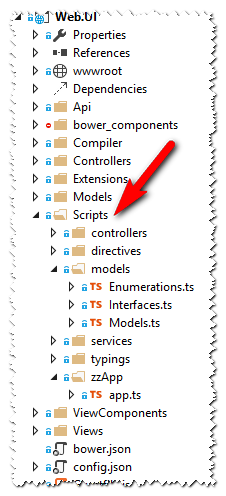
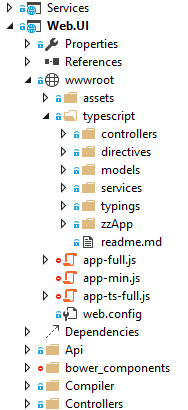
better practice

diff --git a/_posts/blog/2015-08-02-TypeScript-aspnet5-grunt.md b/_posts/blog/2015-08-02-TypeScript-aspnet5-grunt.md
@@ -1,6 +1,6 @@
 ---
 layout: post
-title: 'How to setup TypeScript, ASP.NET 5 (vNext) with grunt'
+title: 'How to setup TypeScript and ASP.NET 5 DNX with grunt'
 categories:
 - blog
 - aspnet-5
@@ -8,16 +8,17 @@ tags:
 - grunt
 - typescript
 - aspnet-5
+- dnx
+- vnext
 excerpt: Notes on setting up TypeScript in an ASP.NET 5 solution
 ---
 I didn't find a lot of documentation on how to setup TypeScript in an ASP.NET 5 project. This is how I did it with grunt and ASP.NET 5 Beta 6. If you know of a better method, comments welcome. 
 
-TheTypeScripts are created in a `Scripts` folder off the project root:
+The TypeScripts are located in `wwwroot/typescript`. Intitially I had them in `$\Scripts` and used grunt to copy them to `wwwroot` but then Visual Studio sees two copies of every `*.ts` file and the TypeScript compiler complains about duplicates.
 
-![Scripts folder](/assets/img/blog/20150802/sln.png)
+![Scripts folder](/assets/img/blog/20150802/sln.png)  
 
-Now when the TypeScript compiles the `*.ts` into `*.js`, it is left in these folders which are not served. We need these files placed into `wwwroot`.
-Grunt will be used to get the files into their final locations.
+We could keep the TypeScript in `$\Scripts` and copy the `*.js` to `wwwroot` with grunt, but then we lose the benefit of sourcemaps and stepping through TypeScript in the browser. 
 
 ### Project Open Task ###
 
@@ -44,8 +45,8 @@ Add a new `tsd.json` to your project root. It might look like this where I am re
 	  "version": "v4",
 	  "repo": "borisyankov/DefinitelyTyped",
 	  "ref": "master",
-	  "path": "Scripts/typings",
-	  "bundle": "Scripts/typings/tsd.d.ts",
+	  "path": "wwwroot/typescript/typings",
+	  "bundle": "wwwroot/typescript/typings/tsd.d.ts",
 	  "installed": {
 	    "angularjs/angular.d.ts": {
 	      "commit": "4df20c9706ce6ca27137617770b57f3a0d3f9689"
@@ -56,39 +57,36 @@ Now you can use the `tsd` console application to install type definitions. I ign
 
 ### Compile time tasks ###
 
-Add a `grunt.loadNpmTasks("grunt-contrib-copy");`, then a copy task:
+Add a `grunt.loadNpmTasks("grunt-contrib-clean");` then make sure our javascript is kept nice and clean. I guess this is optional.
 
-      copy: {
-	    typescript: {
-	    src: 'Scripts/**/*.ts',
-	    dest: 'wwwroot/assets/typescript',
-	    expand: true,
-	    flatten: false
-	    }
-    },
+      clean: {
+            typescriptJS: ["wwwroot/typescript/**/.js"]
+            ,appJS: ["wwwroot/assets/app*.js"]
+        },
     
-Notice that we aren't copying the JavaScript but the TypeScript files.
 
 Next we add a `grunt.loadNpmTasks("grunt-typescript");` task:
 
     typescript: {
-	    webui: {
-			src: ['wwwroot/assets/typescript/**/*.ts'],
-			dest: 'wwwroot/app-ts-full.js',
-			options: {
-			module: 'amd', //or commonjs 
-			target: 'es5', //or es3
-			sourceMap: true,
-			declaration: false
-			}
-		}
-    }
+            webui: {
+                src: ['wwwroot/typescript/**/*.ts'],
+                dest: 'wwwroot/assets/app-ts-full.js',
+                options: {
+                    module: 'amd', //or commonjs 
+                    target: 'es5', //or es3
+                    sourceMap: true,
+                    declaration: false
+                }
+            }
+        },
 
-This is compiling and concatenating the TypeScript into a single JavaScript file in our app root: `app-ts-full-js` which we can reference in our `Shared/Layout.cshtml`.
+This is compiling and concatenating the TypeScript into a single JavaScript file: `wwwroot/assets/app-ts-full-js` which we can reference in our `Shared/Layout.cshtml`.
 
-In the options we set `sourceMap=true`. This is why we copied the TypeScript and not simply the compiled JavaScript to `wwwroot`. TypeScript files in `$(projectDir)` can't get served to the browser, they need to be in  `$(projectDir)/wwwroot` to be visible so that we can step through TypeScript source with F12 tools. This method in a double compile since Visual Studio compiles TypeScript but it doesn't take long on my solution.
+In the TypeScript options we set `sourceMap=true` so that the browser can use load them and allow us to step through TypeScript in the browser with F12 tools. 
 
-At this point we now have TypeScript, JavaScript and sourcemaps being copied and compiled to `wwwroot` at compile time. What if we want to simply edit a TypeScript source file and hit F5 in the browser though?
+This does mean a double compile since Visual Studio compiles TypeScript but it doesn't take long on my solution. I wasn't sure whether `concat` would honour the individual sourcefiles, so that is another reason I did it this way.
+
+At this point we now have TypeScript, JavaScript and sourcemaps being compiled and created off `wwwroot` on every project build. What if we want to simply edit a TypeScript file and hit F5 in the browser?
 
 ### Another Project Open Task ###
 
@@ -96,80 +94,82 @@ Lets watch the TypeScript source folder with
     `grunt.loadNpmTasks('grunt-contrib-watch');`
 
 	watch: {
-	        typescript: {
-	            files: ['Scripts/**/*.ts'],
-	            tasks: ['typeScriptChanged']
-	        }
-	    }
+	    typescript: {
+	        files: ['wwwroot/typescript/**/*.ts'],
+	        tasks: ['typeScript']
+        }
+    }
 
-now define the `typeScriptChanged` task as
-
-	grunt.registerTask('typeScriptChanged', ['copy:typescript', 'typescript']);
-
-
-One final trick is that you will note the `zzApp` folder in my folder structure (see screenshot). This holds `app.ts` which forces my angular modules to register last otherwise I had runtime errors in the browser when the app is trying to load modules that are yet to be parsed in the JavaScript file.  
+One final trick is that you will note the `zzApp` folder in my folder structure (see screenshot above). This holds `app.ts` which forces my angular modules to register last otherwise I had runtime errors in the browser when the app is trying to load modules that are yet to be parsed in the JavaScript file.  
 
 ### TLDR - Complete gruntfile.js
 
 Pulling it all together, here is the final `gruntfile.js`. Notice how the first line is `binding` tasks to Visual Studio events.
+In the real world, you probably also want to copy your `bower` references to `wwwroot`, which you also see below.
 
 	/// <binding AfterBuild='postBuild' ProjectOpened='projectOpen' />
-	module.exports = function (grunt) {
+	/*
+	This file in the main entry point for defining grunt tasks and using grunt plugins.
+	Click here to learn more. http://go.microsoft.com/fwlink/?LinkID=513275&clcid=0x409
+	*/
+	module.exports = function(grunt) {
     grunt.loadNpmTasks('grunt-contrib-watch');
-    grunt.loadNpmTasks("grunt-contrib-copy");
+    grunt.loadNpmTasks('grunt-contrib-copy');
     grunt.loadNpmTasks("grunt-typescript");
     grunt.loadNpmTasks("grunt-tsd");
 
     grunt.initConfig({
 
-	        typescript: {
-	            webui: {
-	                src: ['wwwroot/assets/typescript/**/*.ts'],
-	                dest: 'wwwroot/app-ts-full.js',
-	                options: {
-	                    module: 'amd', //or commonjs 
-	                    target: 'es5', //or es3
-	                    sourceMap: true,
-	                    declaration: false
-	                }
-	            }
-	        },
-	
-	        tsd: {
-	            refresh: {
-	                options: {
-	                    command: 'reinstall',
-	                    latest: false,
-	                    config: 'tsd.json',
-	                    // experimental: options to pass to tsd.API
-	                    opts: {
-	                        // props from tsd.Options
-	                    }
-	                }
-	            }
-	        },
-	
-	        copy: {
-	            typescript: {
-	                src: 'Scripts/**/*.ts',
-	                dest: 'wwwroot/assets/typescript',
-	                expand: true,
-	                flatten: false
-	            }
-	        },
-	        	
-	        watch: {
-	            typescript: {
-	                files: ['Scripts/**/*.ts'],
-	                tasks: ['typeScriptChanged']
-	            }
-	        }
-	    });
-	    
-	    grunt.registerTask('postBuild', ['typeScriptChanged']);
-	    grunt.registerTask('projectOpen', ['tsd', 'watch']);
-	    grunt.registerTask('typeScriptChanged', ['copy:typescript', 'typescript']);
+        typescript: {
+            webui: {
+                src: ['wwwroot/typescript/**/*.ts'],
+                dest: 'wwwroot/assets/app-ts-full.js',
+                options: {
+                    module: 'amd', //or commonjs 
+                    target: 'es5', //or es3
+                    sourceMap: true,
+                    declaration: false
+                }
+            }
+        },
+
+        tsd: {
+            refresh: {
+                options: {
+                    command: 'reinstall',
+                    latest: false,
+                    config: 'tsd.json',
+                    // experimental: options to pass to tsd.API
+                    opts: {
+                        // props from tsd.Options                    
+                    }
+                }
+            }
+        },
+
+   		copy: {
+            bowerDist: {
+                src: 'bower_components/**/dist/*',
+                dest: 'wwwroot/assets/lib/',
+                expand: true,
+                flatten: true
+            }
+        },
+
+        watch: {
+            typescript: {
+                files: ['wwwroot/typescript/**/*.ts'],
+                tasks: ['typeScript']
+            }
+        }
+    });
+
+    grunt.registerTask('postBuild', ['typescript']);
+    grunt.registerTask('projectOpen', ['tsd', 'copy', 'watch']);
 	};
 
 Now with our JavaScript sourceMaps we can browse to TypeScript source and hit breakpoints in our application. Happy days!
+
 ![Scripts folder](/assets/img/blog/20150802/break.png)
+
+Lastly, if you want to minify your `app-ts-full.js`, there is no bundling anymore. Just throw in an `uglify` grunt task to make a `app-ts-min.js`.
